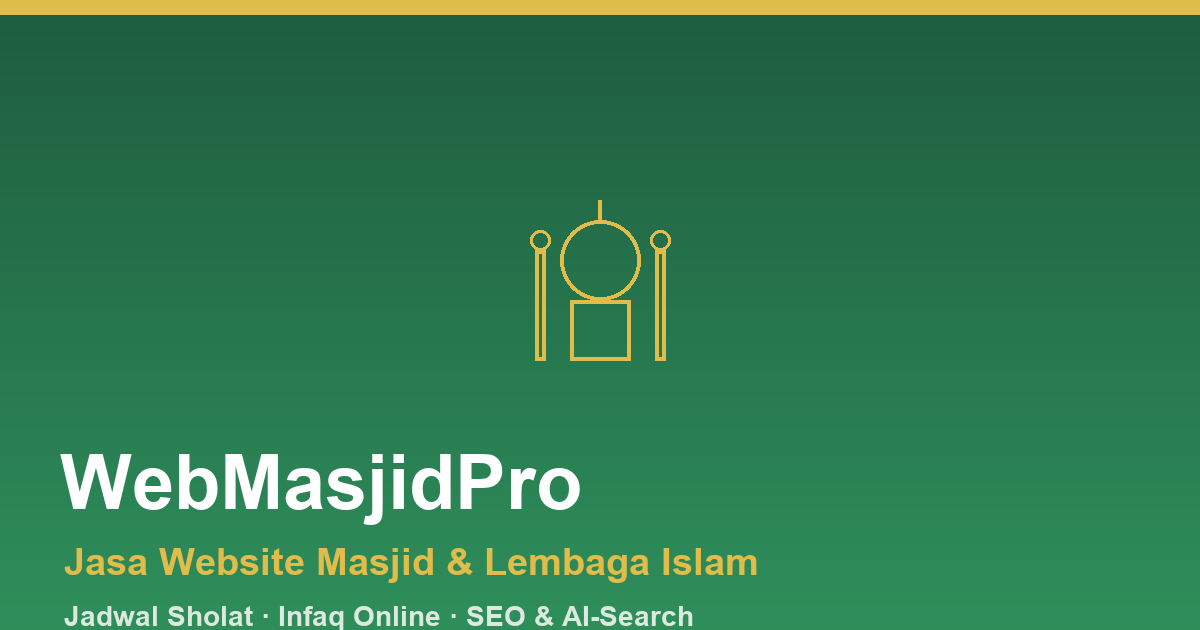
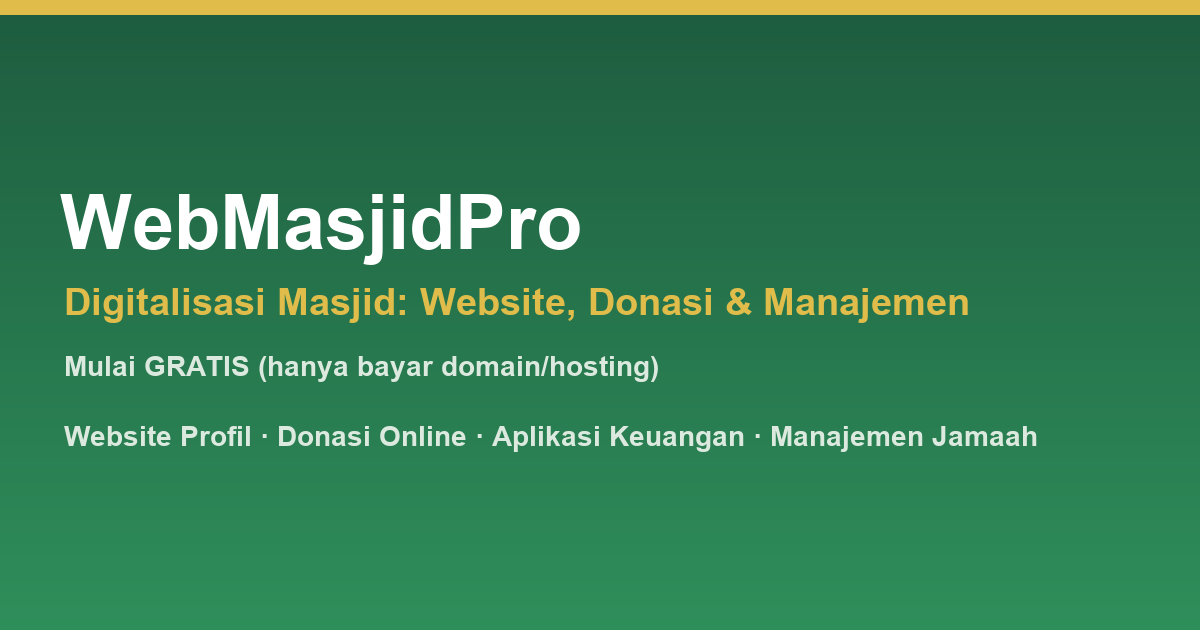
Tiru model eMasjid: digitalisasi masjid (website+donasi+manajemen), harga gratis-Rp5jt, section harga

diff --git a/index.html b/index.html
@@ -3,8 +3,8 @@
 <head>
 <meta charset="UTF-8">
 <meta name="viewport" content="width=device-width, initial-scale=1.0">
-<title>WebMasjidPro — Jasa Pembuatan Website Masjid, Yayasan &amp; Lembaga Islam</title>
-<meta name="description" content="Jasa pembuatan website untuk masjid, yayasan, pesantren &amp; lembaga Islam. Fitur jadwal sholat, kalender Hijriah, infaq/donasi &amp; profil takmir. Desain islami, SEO &amp; AI-search friendly. Konsultasi gratis.">
+<title>WebMasjidPro — Digitalisasi Masjid: Website &amp; Aplikasi Manajemen Masjid</title>
+<meta name="description" content="Jasa digitalisasi masjid: website profil, donasi online, aplikasi keuangan, manajemen jamaah &amp; inventaris. Mulai GRATIS (hanya bayar domain/hosting) hingga Rp5jt. Desain islami, SEO &amp; AI-search friendly.">
 <meta name="robots" content="index, follow, max-image-preview:large, max-snippet:-1">
 <link rel="canonical" href="https://azzamamry-lab.github.io/web-masjid-pro/">
 <meta name="author" content="WebMasjidPro">
@@ -33,10 +33,10 @@
   "@context": "https://schema.org",
   "@type": "ProfessionalService",
   "name": "WebMasjidPro",
-  "description": "Jasa pembuatan website untuk masjid, yayasan, pesantren, dan lembaga Islam dengan fitur jadwal sholat, kalender Hijriah, infaq/donasi, dan profil takmir.",
+  "description": "Jasa digitalisasi masjid: website profil masjid, website donasi online, aplikasi keuangan, manajemen jamaah, dan inventaris. Mulai gratis (hanya bayar domain/hosting) hingga Rp5.000.000.",
   "url": "https://azzamamry-lab.github.io/web-masjid-pro/",
   "image": "https://azzamamry-lab.github.io/web-masjid-pro/og-cover.png",
-  "priceRange": "Rp1.500.000 - Rp8.000.000+",
+  "priceRange": "Gratis - Rp5.000.000",
   "areaServed": { "@type": "Country", "name": "Indonesia" },
   "address": { "@type": "PostalAddress", "addressCountry": "ID" },
   "sameAs": []
@@ -47,23 +47,23 @@
 {
   "@context": "https://schema.org",
   "@type": "Service",
-  "serviceType": "Jasa Pembuatan Website Masjid & Lembaga Islam",
+  "serviceType": "Digitalisasi Masjid: Website & Aplikasi Manajemen Masjid",
   "provider": { "@type": "ProfessionalService", "name": "WebMasjidPro" },
   "areaServed": "Indonesia",
   "offers": {
     "@type": "AggregateOffer",
     "priceCurrency": "IDR",
-    "lowPrice": "1500000",
-    "highPrice": "8000000",
+    "lowPrice": "0",
+    "highPrice": "5000000",
     "offerCount": "3"
   },
   "hasOfferCatalog": {
     "@type": "OfferCatalog",
-    "name": "Paket Website Masjid",
+    "name": "Paket Digitalisasi Masjid",
     "itemListElement": [
-      { "@type": "Offer", "itemOffered": { "@type": "Service", "name": "Website Profil Masjid", "description": "Profil masjid, jadwal sholat, galeri kegiatan, kontak takmir." }, "price": "1500000", "priceCurrency": "IDR" },
-      { "@type": "Offer", "itemOffered": { "@type": "Service", "name": "Website Masjid + Infaq/Donasi", "description": "Profil + halaman infaq/donasi online, kalender Hijriah, pengumuman." }, "price": "3500000", "priceCurrency": "IDR" },
-      { "@type": "Offer", "itemOffered": { "@type": "Service", "name": "Website Lembaga/Organisasi Islam", "description": "Website multi-halaman untuk yayasan, pesantren, sekolah Islam, atau organisasi Islam." }, "price": "8000000", "priceCurrency": "IDR" }
+      { "@type": "Offer", "itemOffered": { "@type": "Service", "name": "Website Profil Masjid (Gratis)", "description": "Website profil masjid, jadwal sholat, galeri kegiatan, kontak takmir. Gratis, hanya bayar domain & hosting." }, "price": "0", "priceCurrency": "IDR" },
+      { "@type": "Offer", "itemOffered": { "@type": "Service", "name": "Website Masjid + Donasi & Manajemen", "description": "Profil + website donasi online, aplikasi keuangan masjid, manajemen jamaah, inventaris." }, "price": "2500000", "priceCurrency": "IDR" },
+      { "@type": "Offer", "itemOffered": { "@type": "Service", "name": "Website Lembaga Islam / Yayasan", "description": "Website multi-halaman untuk yayasan, pesantren, sekolah Islam, atau organisasi Islam." }, "price": "5000000", "priceCurrency": "IDR" }
     ]
   }
 }
@@ -75,7 +75,7 @@
   "@type": "FAQPage",
   "mainEntity": [
     { "@type": "Question", "name": "Apakah bisa pasang jadwal sholat otomatis di website masjid?", "acceptedAnswer": { "@type": "Answer", "text": "Bisa. Kami bisa integrasikan jadwal sholat otomatis yang menyesuaikan koordinat lokasi masjid sesuai jadwal Kemenag RI, lengkap dengan imsak, syuruq, dan dhuha." } },
-    { "@type": "Question", "name": "Berapa biaya pembuatan website masjid?", "acceptedAnswer": { "@type": "Answer", "text": "Paket profil masjid mulai Rp1,5 juta, website masjid dengan fitur infaq/donasi mulai Rp3,5 juta, dan website lembaga Islam multi-halaman mulai Rp8 juta. Harga menyesuaikan kebutuhan." } },
+    { "@type": "Question", "name": "Berapa biaya pembuatan website masjid?", "acceptedAnswer": { "@type": "Answer", "text": "Website profil masjid bisa GRATIS (hanya bayar domain & hosting sekitar Rp300 ribu/tahun). Paket website masjid + donasi online & manajemen mulai Rp2,5 juta, dan website lembaga Islam/yayasan multi-halaman mulai Rp5 juta. Harga menyesuaikan kebutuhan." } },
     { "@type": "Question", "name": "Apakah website masjid bisa menerima infaq/donasi online?", "acceptedAnswer": { "@type": "Answer", "text": "Bisa. Kami sediakan halaman infaq/donasi dengan kode QR dan instruksi transfer, atau integrasi pembayaran digital sesuai kebutuhan takmir." } },
     { "@type": "Question", "name": "Berapa lama proses pengerjaan website masjid?", "acceptedAnswer": { "@type": "Answer", "text": "Website profil masjid umumnya selesai 1-2 minggu, website lembaga multi-halaman 2-4 minggu, tergantung fitur dan konten." } },
     { "@type": "Question", "name": "Apakah desainnya bisa custom sesuai identitas masjid?", "acceptedAnswer": { "@type": "Answer", "text": "Tentu. Desain kami buat sesuai identitas masjid: warna, logo, ornamen islami, dan nuansa yang mewakili jamaah. Gratis custom branding nama masjid." } }
@@ -242,6 +242,7 @@
     <div class="nav-links">
       <a href="#fitur">Fitur</a>
       <a href="#layanan">Layanan</a>
+      <a href="#harga">Harga</a>
       <a href="#portofolio">Portofolio</a>
       <a href="#faq">FAQ</a>
       <a href="#kontak" class="btn btn-primary nav-cta">Konsultasi Gratis</a>
@@ -254,9 +255,10 @@
 <div class="mobile-menu" id="mobileMenu">
   <a href="#fitur">Fitur</a>
   <a href="#layanan">Layanan</a>
+  <a href="#harga">Harga</a>
   <a href="#portofolio">Portofolio</a>
   <a href="#faq">FAQ</a>
-  <a href="https://wa.me/6282137697080?text=Assalamualaikum%2C%20saya%20ingin%20konsultasi%20pembuatan%20website%20masjid." class="btn btn-primary" style="margin-top:10px">Konsultasi Gratis</a>
+  <a href="https://wa.me/6282137697080?text=Assalamualaikum%2C%20saya%20ingin%20konsultasi%20digitalisasi%20masjid." class="btn btn-primary" style="margin-top:10px">Konsultasi Gratis</a>
 </div>
 
 <header class="hero" id="top">
@@ -264,19 +266,19 @@
   <div class="wrap">
     <div>
       <span class="badge"><span class="dot"></span> Khusus Masjid, Yayasan &amp; Lembaga Islam</span>
-      <h1>Website Masjid yang <span class="grad-text">Amanah</span>, Modern &amp; Mendatangkan <span class="grad-text">Jamaah</span></h1>
-      <p>Kami bantu masjid &amp; lembaga Islam Anda tampil profesional di dunia digital — dengan jadwal sholat otomatis, infaq online, profil takmir, dan desain islami yang mencerminkan identitas jamaah.</p>
+      <h1>Digitalisasi Masjid: <span class="grad-text">Website</span>, Donasi &amp; <span class="grad-text">Manajemen</span> dalam Satu Platform</h1>
+      <p>Kami bantu masjid &amp; lembaga Islam Anda go digital — website profil, donasi online, aplikasi keuangan, manajemen jamaah &amp; inventaris. Mulai <b>GRATIS</b> (hanya bayar domain/hosting), desain islami modern yang SEO &amp; AI-search friendly.</p>
       <div class="hero-cta">
-        <a href="https://wa.me/6282137697080?text=Assalamualaikum%2C%20saya%20ingin%20konsultasi%20pembuatan%20website%20masjid." class="btn btn-primary">
+        <a href="https://wa.me/6282137697080?text=Assalamualaikum%2C%20saya%20ingin%20konsultasi%20digitalisasi%20masjid." class="btn btn-primary">
           Konsultasi Gratis
           <svg viewBox="0 0 24 24" fill="none" stroke="currentColor" stroke-width="2.2"><path d="M5 12h14M13 6l6 6-6 6"/></svg>
         </a>
         <a href="#layanan" class="btn btn-ghost">Lihat Layanan</a>
       </div>
       <div class="hero-points">
-        <span><svg viewBox="0 0 24 24" fill="none" stroke="currentColor" stroke-width="2.2"><path d="M20 6L9 17l-5-5"/></svg> Jadwal Sholat Otomatis</span>
-        <span><svg viewBox="0 0 24 24" fill="none" stroke="currentColor" stroke-width="2.2"><path d="M20 6L9 17l-5-5"/></svg> SEO &amp; AI-Search Friendly</span>
-        <span><svg viewBox="0 0 24 24" fill="none" stroke="currentColor" stroke-width="2.2"><path d="M20 6L9 17l-5-5"/></svg> Infaq / Donasi Online</span>
+        <span><svg viewBox="0 0 24 24" fill="none" stroke="currentColor" stroke-width="2.2"><path d="M20 6L9 17l-5-5"/></svg> Website Masjid Gratis</span>
+        <span><svg viewBox="0 0 24 24" fill="none" stroke="currentColor" stroke-width="2.2"><path d="M20 6L9 17l-5-5"/></svg> Donasi Online</span>
+        <span><svg viewBox="0 0 24 24" fill="none" stroke="currentColor" stroke-width="2.2"><path d="M20 6L9 17l-5-5"/></svg> Manajemen Jamaah &amp; Keuangan</span>
       </div>
     </div>
     <div class="hero-visual">
@@ -312,30 +314,30 @@
 <section id="fitur">
   <div class="wrap">
     <div class="center">
-      <span class="kicker">Fitur Khusus</span>
-      <h2 style="font-family:var(--display);font-size:clamp(28px,4vw,40px);margin-top:14px">Dibuat Khusus untuk Kebutuhan Masjid</h2>
-      <p class="muted" style="max-width:620px;margin:16px auto 0">Bukan sekadar template. Kami pahami kebutuhan unik masjid &amp; lembaga Islam Anda.</p>
+      <span class="kicker">Fitur Digitalisasi</span>
+      <h2 style="font-family:var(--display);font-size:clamp(28px,4vw,40px);margin-top:14px">Satu Platform untuk Semua Kebutuhan Masjid</h2>
+      <p class="muted" style="max-width:620px;margin:16px auto 0">Bukan sekadar template. Kami hadirkan ekosistem digital lengkap untuk pengelolaan masjid modern — dari website sampai aplikasi manajemen.</p>
     </div>
     <div class="feat-grid">
       <div class="feat">
-        <div class="feat-icon"><svg viewBox="0 0 24 24" fill="none" stroke="currentColor" stroke-width="2"><circle cx="12" cy="12" r="9"/><path d="M12 7v5l3 3"/></svg></div>
-        <h3>Jadwal Sholat Otomatis</h3>
-        <p>Terintegrasi jadwal Kemenag, menyesuaikan koordinat lokasi masjid Anda.</p>
-      </div>
-      <div class="feat">
-        <div class="feat-icon"><svg viewBox="0 0 24 24" fill="none" stroke="currentColor" stroke-width="2"><path d="M6 2h12M6 22h12M4 6h16M4 18h16M6 6v12M18 6v12"/></svg></div>
-        <h3>Kalender Hijriah</h3>
-        <p>Tampilkan tanggal Hijriah &amp; hari besar Islam secara otomatis.</p>
+        <div class="feat-icon"><svg viewBox="0 0 24 24" fill="none" stroke="currentColor" stroke-width="2"><path d="M3 21h18M5 21V7l7-4 7 4v14"/></svg></div>
+        <h3>Website Profil Masjid</h3>
+        <p>Profil masjid, jadwal sholat Kemenag otomatis, galeri kegiatan, dan kontak takmir.</p>
       </div>
       <div class="feat">
         <div class="feat-icon"><svg viewBox="0 0 24 24" fill="none" stroke="currentColor" stroke-width="2"><path d="M12 22s8-4 8-10V5l-8-3-8 3v7c0 6 8 10 8 10z"/></svg></div>
-        <h3>Infaq / Donasi Online</h3>
-        <p>Halaman infaq dengan QR code &amp; instruksi transfer yang mudah.</p>
+        <h3>Donasi / Infaq Online</h3>
+        <p>Halaman donasi dengan QR code &amp; instruksi transfer yang mudah untuk jamaah.</p>
       </div>
       <div class="feat">
-        <div class="feat-icon"><svg viewBox="0 0 24 24" fill="none" stroke="currentColor" stroke-width="2"><path d="M12 2l2.4 4.8L20 8l-4 3.9.9 5.6L12 14.8 7.1 17.5 8 11.9 4 8l5.6-1.2z"/></svg></div>
-        <h3>Custom Branding</h3>
-        <p>Gratis nama masjid, logo, &amp; ornamen islami sesuai identitas jamaah.</p>
+        <div class="feat-icon"><svg viewBox="0 0 24 24" fill="none" stroke="currentColor" stroke-width="2"><rect x="2" y="5" width="20" height="14" rx="2"/><path d="M2 10h20M6 15h4"/></svg></div>
+        <h3>Aplikasi Keuangan</h3>
+        <p>Catat pemasukan &amp; pengeluaran masjid digital, laporan rapi &amp; transparan.</p>
+      </div>
+      <div class="feat">
+        <div class="feat-icon"><svg viewBox="0 0 24 24" fill="none" stroke="currentColor" stroke-width="2"><path d="M17 21v-2a4 4 0 00-4-4H5a4 4 0 00-4 4v2"/><circle cx="9" cy="7" r="4"/><path d="M23 21v-2a4 4 0 00-3-3.87M16 3.13a4 4 0 010 7.75"/></svg></div>
+        <h3>Manajemen Jamaah</h3>
+        <p>Database jamaah terstruktur, kelompokkan kategori, dan program dakwah.</p>
       </div>
     </div>
   </div>
@@ -345,24 +347,91 @@
   <div class="wrap">
     <div class="center">
       <span class="kicker">Layanan Kami</span>
-      <h2 style="font-family:var(--display);font-size:clamp(28px,4vw,40px);margin-top:14px">Solusi Sesuai Kebutuhan</h2>
-      <p class="muted" style="max-width:600px;margin:16px auto 0">Dari profil masjid sederhana hingga website lembaga Islam lengkap.</p>
+      <h2 style="font-family:var(--display);font-size:clamp(28px,4vw,40px);margin-top:14px">Ekosistem Digital Masjid Lengkap</h2>
+      <p class="muted" style="max-width:600px;margin:16px auto 0">Layanan digitalisasi masjid yang bisa dipilih sesuai kebutuhan — dari yang gratis sampai lengkap.</p>
     </div>
     <div class="svc-grid">
       <div class="svc">
         <div class="svc-icon"><svg viewBox="0 0 24 24" fill="none" stroke="currentColor" stroke-width="2"><path d="M3 21h18M5 21V7l7-4 7 4v14"/></svg></div>
         <h3>Website Profil Masjid</h3>
-        <p>Profil masjid, jadwal sholat, galeri kegiatan, dan kontak takmir dalam satu halaman yang elegan.</p>
+        <p>Profil masjid, jadwal sholat Kemenag otomatis, galeri kegiatan, dan kontak takmir yang elegan.</p>
       </div>
       <div class="svc">
         <div class="svc-icon"><svg viewBox="0 0 24 24" fill="none" stroke="currentColor" stroke-width="2"><path d="M12 22s8-4 8-10V5l-8-3-8 3v7c0 6 8 10 8 10z"/></svg></div>
-        <h3>Website Masjid + Infaq</h3>
-        <p>Lengkap dengan halaman infaq/donasi online, kalender Hijriah, dan pengumuman kegiatan.</p>
+        <h3>Website Donasi Online</h3>
+        <p>Halaman donasi/infaq dengan QR code &amp; instruksi transfer, mudah &amp; transparan untuk jamaah.</p>
+      </div>
+      <div class="svc">
+        <div class="svc-icon"><svg viewBox="0 0 24 24" fill="none" stroke="currentColor" stroke-width="2"><rect x="2" y="5" width="20" height="14" rx="2"/><path d="M2 10h20M6 15h4"/></svg></div>
+        <h3>Aplikasi Keuangan Masjid</h3>
+        <p>Kelola pemasukan &amp; pengeluaran digital, laporan keuangan rapi &amp; transparan untuk takmir.</p>
+      </div>
+      <div class="svc">
+        <div class="svc-icon"><svg viewBox="0 0 24 24" fill="none" stroke="currentColor" stroke-width="2"><path d="M17 21v-2a4 4 0 00-4-4H5a4 4 0 00-4 4v2"/><circle cx="9" cy="7" r="4"/><path d="M23 21v-2a4 4 0 00-3-3.87M16 3.13a4 4 0 010 7.75"/></svg></div>
+        <h3>Aplikasi Manajemen Jamaah</h3>
+        <p>Database jamaah terstruktur, kelompokkan kategori, dan kelola program dakwah.</p>
+      </div>
+      <div class="svc">
+        <div class="svc-icon"><svg viewBox="0 0 24 24" fill="none" stroke="currentColor" stroke-width="2"><path d="M9 5H7a2 2 0 00-2 2v12a2 2 0 002 2h10a2 2 0 002-2V7a2 2 0 00-2-2h-2M9 5a2 2 0 002 2h2a2 2 0 002-2M9 5a2 2 0 012-2h2a2 2 0 012 2"/></svg></div>
+        <h3>Aplikasi Inventaris Masjid</h3>
+        <p>Catat inventaris &amp; aset masjid, pantau kondisi, dan kelola peminjaman.</p>
       </div>
       <div class="svc">
         <div class="svc-icon"><svg viewBox="0 0 24 24" fill="none" stroke="currentColor" stroke-width="2"><path d="M3 21h18M5 21V7l7-4 7 4v14M9 9h.01M15 9h.01M9 13h.01M15 13h.01"/></svg></div>
-        <h3>Website Lembaga Islam</h3>
-        <p>Multi-halaman untuk yayasan, pesantren, sekolah Islam, atau organisasi Islam dengan berita &amp; program.</p>
+        <h3>Website Lembaga Islam / Yayasan</h3>
+        <p>Multi-halaman untuk yayasan, pesantren, sekolah Islam, atau organisasi Islam.</p>
+      </div>
+    </div>
+  </div>
+</section>
+
+<!-- ============ HARGA ============ -->
+<section id="harga" style="background:var(--bg2)">
+  <div class="wrap">
+    <div class="center">
+      <span class="kicker">Harga Terjangkau</span>
+      <h2 style="font-family:var(--display);font-size:clamp(28px,4vw,40px);margin-top:14px">Mulai dari <span class="grad-text">GRATIS</span></h2>
+      <p class="muted" style="max-width:600px;margin:16px auto 0">Harga fleksibel menyesuaikan kebutuhan masjid Anda — dari gratis hingga paket lengkap.</p>
+    </div>
+    <div class="svc-grid" style="margin-top:52px">
+      <div class="svc" style="border:2px solid var(--green2)">
+        <div class="svc-icon" style="background:linear-gradient(135deg,#2f8f5b,#4aa67c)"><svg viewBox="0 0 24 24" fill="none" stroke="currentColor" stroke-width="2"><path d="M3 21h18M5 21V7l7-4 7 4v14"/></svg></div>
+        <h3>Website Profil Masjid</h3>
+        <p style="font-size:32px;font-weight:800;color:var(--green);margin:8px 0">GRATIS</p>
+        <p style="font-size:13px;color:var(--ink2);margin-bottom:14px">Hanya bayar domain &amp; hosting (±Rp300rb/thn)</p>
+        <ul style="list-style:none;display:flex;flex-direction:column;gap:9px;font-size:14px;color:var(--ink2)">
+          <li>✓ Profil masjid &amp; jadwal sholat</li>
+          <li>✓ Galeri kegiatan</li>
+          <li>✓ Kontak takmir</li>
+          <li>✓ SEO dasar</li>
+        </ul>
+        <a href="https://wa.me/6282137697080?text=Assalamualaikum%2C%20saya%20mau%20website%20masjid%20gratis." class="btn btn-primary" style="margin-top:20px;width:100%">Klaim Gratis</a>
+      </div>
+      <div class="svc" style="border:2px solid var(--gold)">
+        <div class="svc-icon" style="background:linear-gradient(135deg,#c9a227,#e0bd4a)"><svg viewBox="0 0 24 24" fill="none" stroke="currentColor" stroke-width="2"><path d="M12 22s8-4 8-10V5l-8-3-8 3v7c0 6 8 10 8 10z"/></svg></div>
+        <h3>Website + Donasi &amp; Manajemen</h3>
+        <p style="font-size:32px;font-weight:800;color:var(--green);margin:8px 0">Rp2,5jt</p>
+        <p style="font-size:13px;color:var(--ink2);margin-bottom:14px">Paket paling laris untuk digitalisasi penuh</p>
+        <ul style="list-style:none;display:flex;flex-direction:column;gap:9px;font-size:14px;color:var(--ink2)">
+          <li>✓ Website donasi online (QR)</li>
+          <li>✓ Aplikasi keuangan masjid</li>
+          <li>✓ Manajemen jamaah &amp; inventaris</li>
+          <li>✓ Optimasi SEO lengkap</li>
+        </ul>
+        <a href="https://wa.me/6282137697080?text=Assalamualaikum%2C%20saya%20ingin%20paket%20website%20masjid%20Rp2%2C5jt." class="btn btn-primary" style="margin-top:20px;width:100%">Pilih Paket Ini</a>
+      </div>
+      <div class="svc">
+        <div class="svc-icon" style="background:linear-gradient(135deg,#1e5c3f,#4aa67c)"><svg viewBox="0 0 24 24" fill="none" stroke="currentColor" stroke-width="2"><path d="M3 21h18M5 21V7l7-4 7 4v14M9 9h.01M15 9h.01M9 13h.01M15 13h.01"/></svg></div>
+        <h3>Website Lembaga Islam / Yayasan</h3>
+        <p style="font-size:32px;font-weight:800;color:var(--green);margin:8px 0">Rp5jt</p>
+        <p style="font-size:13px;color:var(--ink2);margin-bottom:14px">Multi-halaman untuk organisasi Islam</p>
+        <ul style="list-style:none;display:flex;flex-direction:column;gap:9px;font-size:14px;color:var(--ink2)">
+          <li>✓ Multi-halaman (berita &amp; program)</li>
+          <li>✓ Donasi online lengkap</li>
+          <li>✓ Manajemen konten mandiri</li>
+          <li>✓ Training &amp; support</li>
+        </ul>
+        <a href="https://wa.me/6282137697080?text=Assalamualaikum%2C%20saya%20ingin%20paket%20website%20yayasan%20Rp5jt." class="btn btn-ghost" style="margin-top:20px;width:100%">Diskusi Project</a>
       </div>
     </div>
   </div>
@@ -409,7 +478,7 @@
       </div>
       <div class="faq-item" style="background:var(--card);border:1px solid var(--line);border-radius:16px;margin-bottom:14px;overflow:hidden">
         <button class="faq-q" style="width:100%;display:flex;justify-content:space-between;align-items:center;gap:16px;padding:22px 24px;background:none;border:none;cursor:pointer;font-family:var(--font);font-size:16.5px;font-weight:700;color:var(--ink);text-align:left">Berapa biaya pembuatan website masjid?<span class="icon" style="color:var(--green);font-size:20px">+</span></button>
-        <div class="faq-a" style="max-height:0;overflow:hidden;transition:max-height .4s ease"><p style="padding:0 24px 24px;color:var(--ink2)">Paket profil masjid mulai Rp1,5 juta, website masjid dengan infaq/donasi mulai Rp3,5 juta, dan website lembaga Islam multi-halaman mulai Rp8 juta. Harga menyesuaikan kebutuhan.</p></div>
+        <div class="faq-a" style="max-height:0;overflow:hidden;transition:max-height .4s ease"><p style="padding:0 24px 24px;color:var(--ink2)">Website profil masjid bisa GRATIS (hanya bayar domain &amp; hosting ±Rp300rb/tahun). Paket website masjid + donasi online &amp; manajemen mulai Rp2,5 juta, dan website lembaga Islam/yayasan multi-halaman mulai Rp5 juta. Harga menyesuaikan kebutuhan.</p></div>
       </div>
       <div class="faq-item" style="background:var(--card);border:1px solid var(--line);border-radius:16px;margin-bottom:14px;overflow:hidden">
         <button class="faq-q" style="width:100%;display:flex;justify-content:space-between;align-items:center;gap:16px;padding:22px 24px;background:none;border:none;cursor:pointer;font-family:var(--font);font-size:16.5px;font-weight:700;color:var(--ink);text-align:left">Apakah website masjid bisa menerima infaq/donasi online?<span class="icon" style="color:var(--green);font-size:20px">+</span></button>
@@ -453,6 +522,7 @@
         <ul>
           <li><a href="#fitur">Fitur</a></li>
           <li><a href="#layanan">Layanan</a></li>
+          <li><a href="#harga">Harga</a></li>
           <li><a href="#portofolio">Portofolio</a></li>
           <li><a href="#faq">FAQ</a></li>
         </ul>
